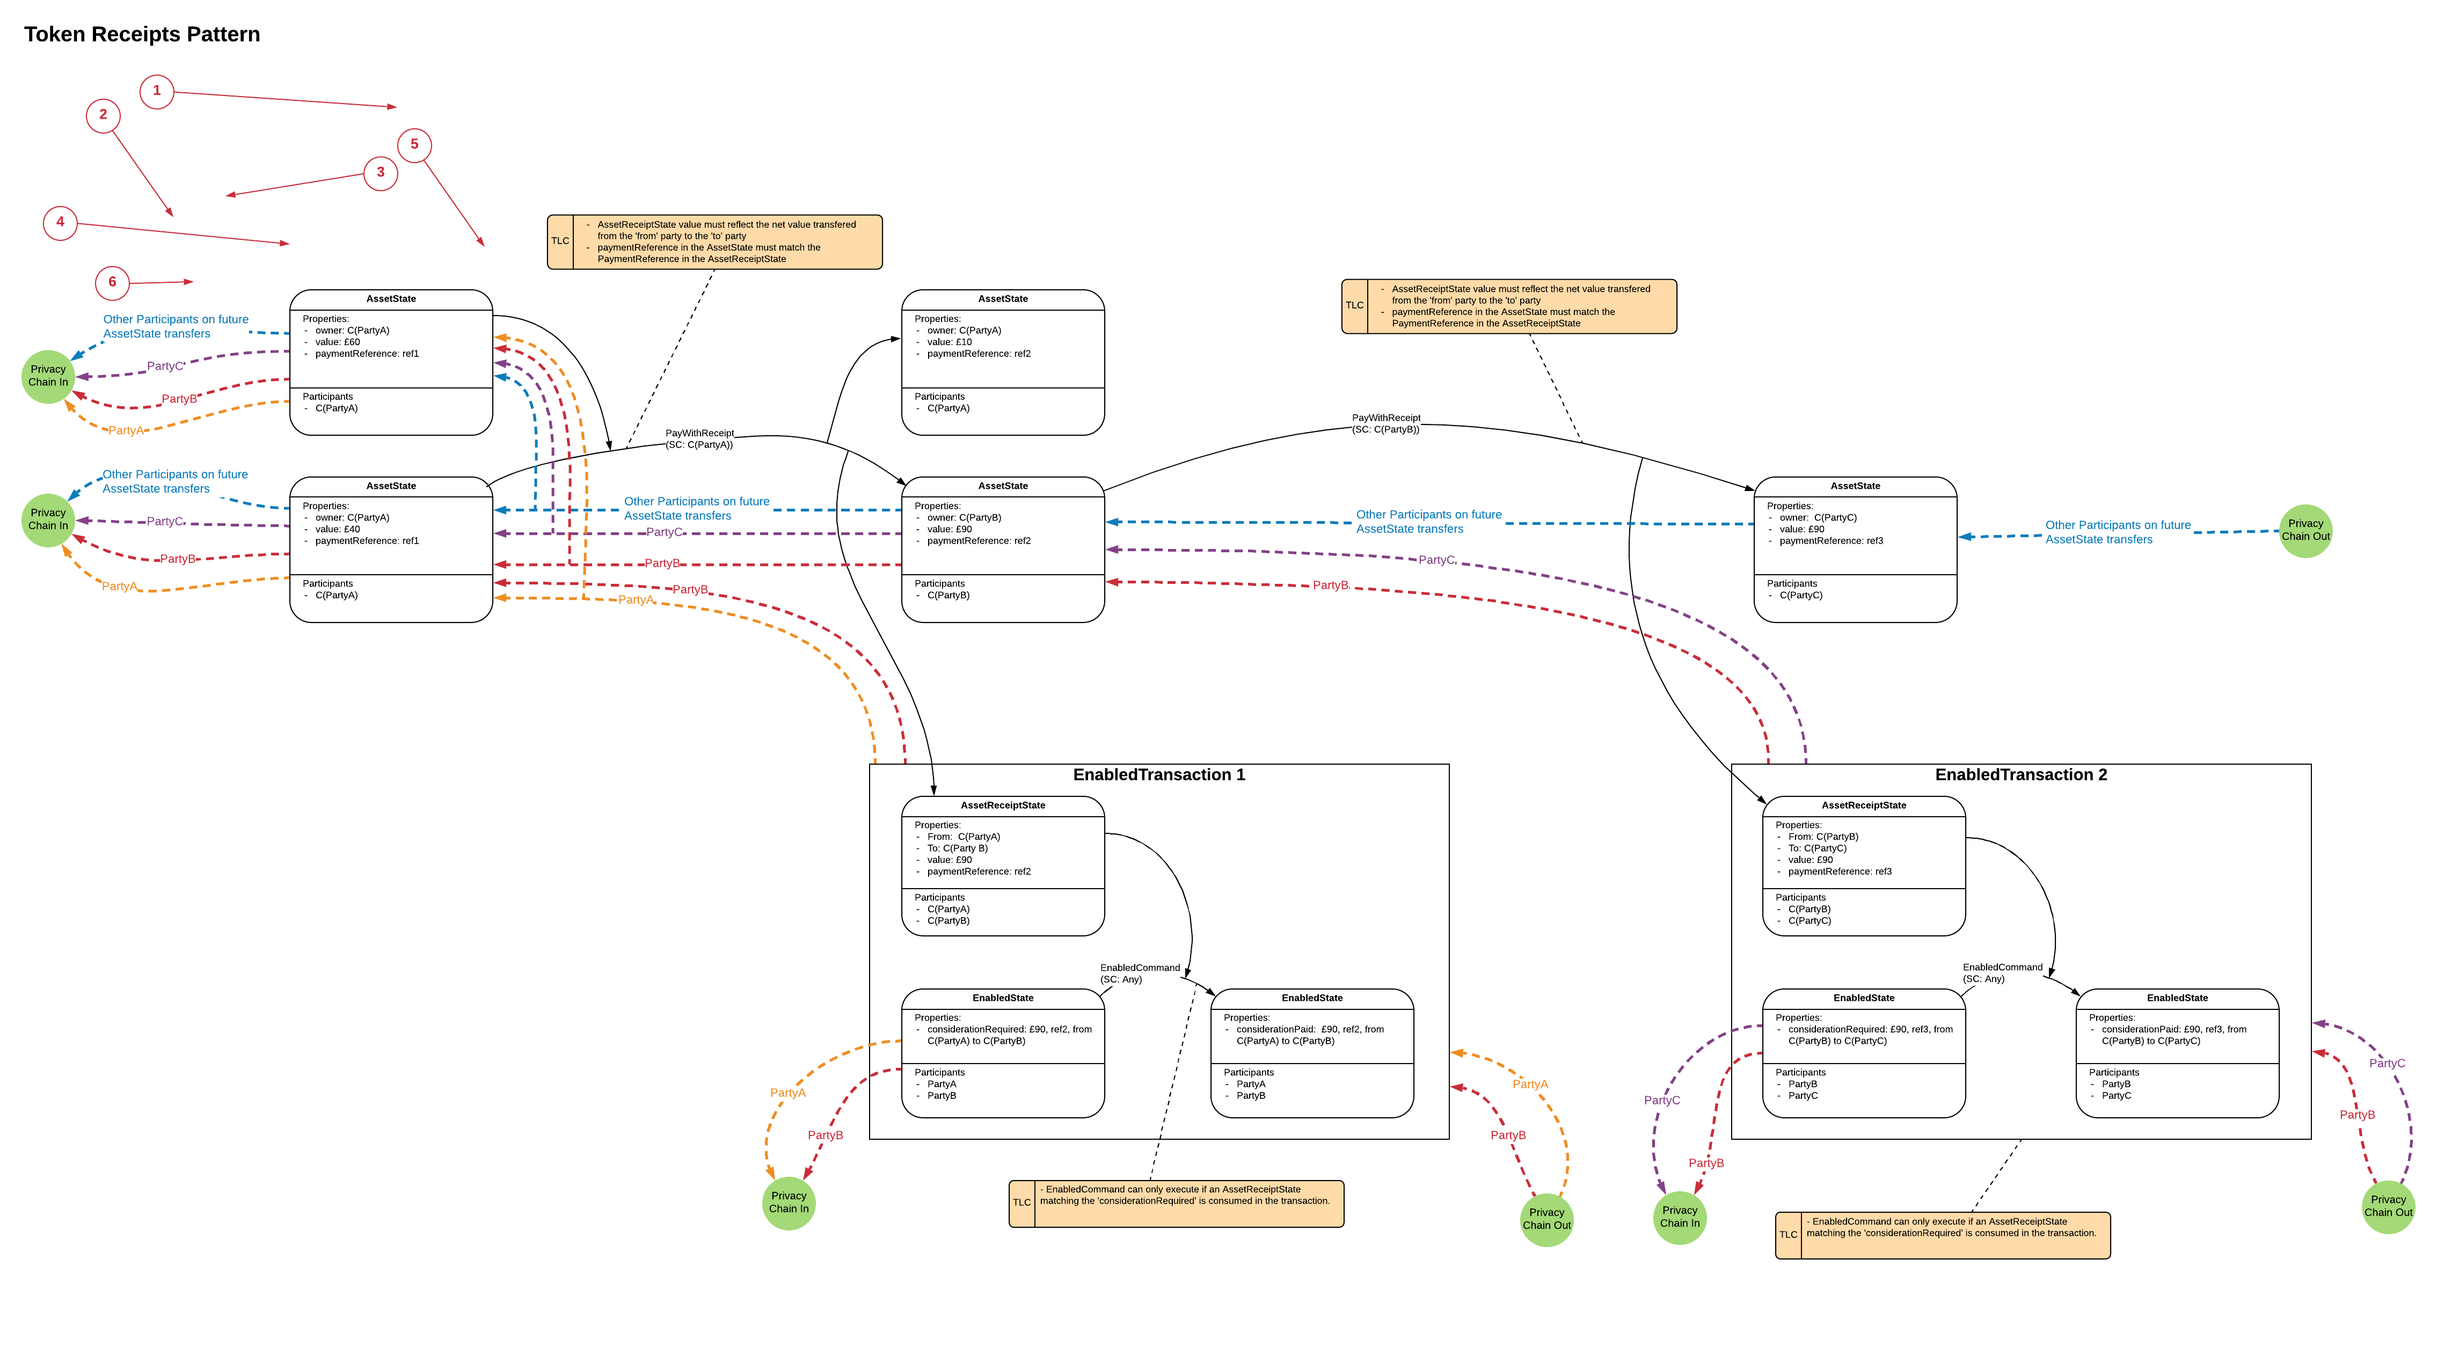
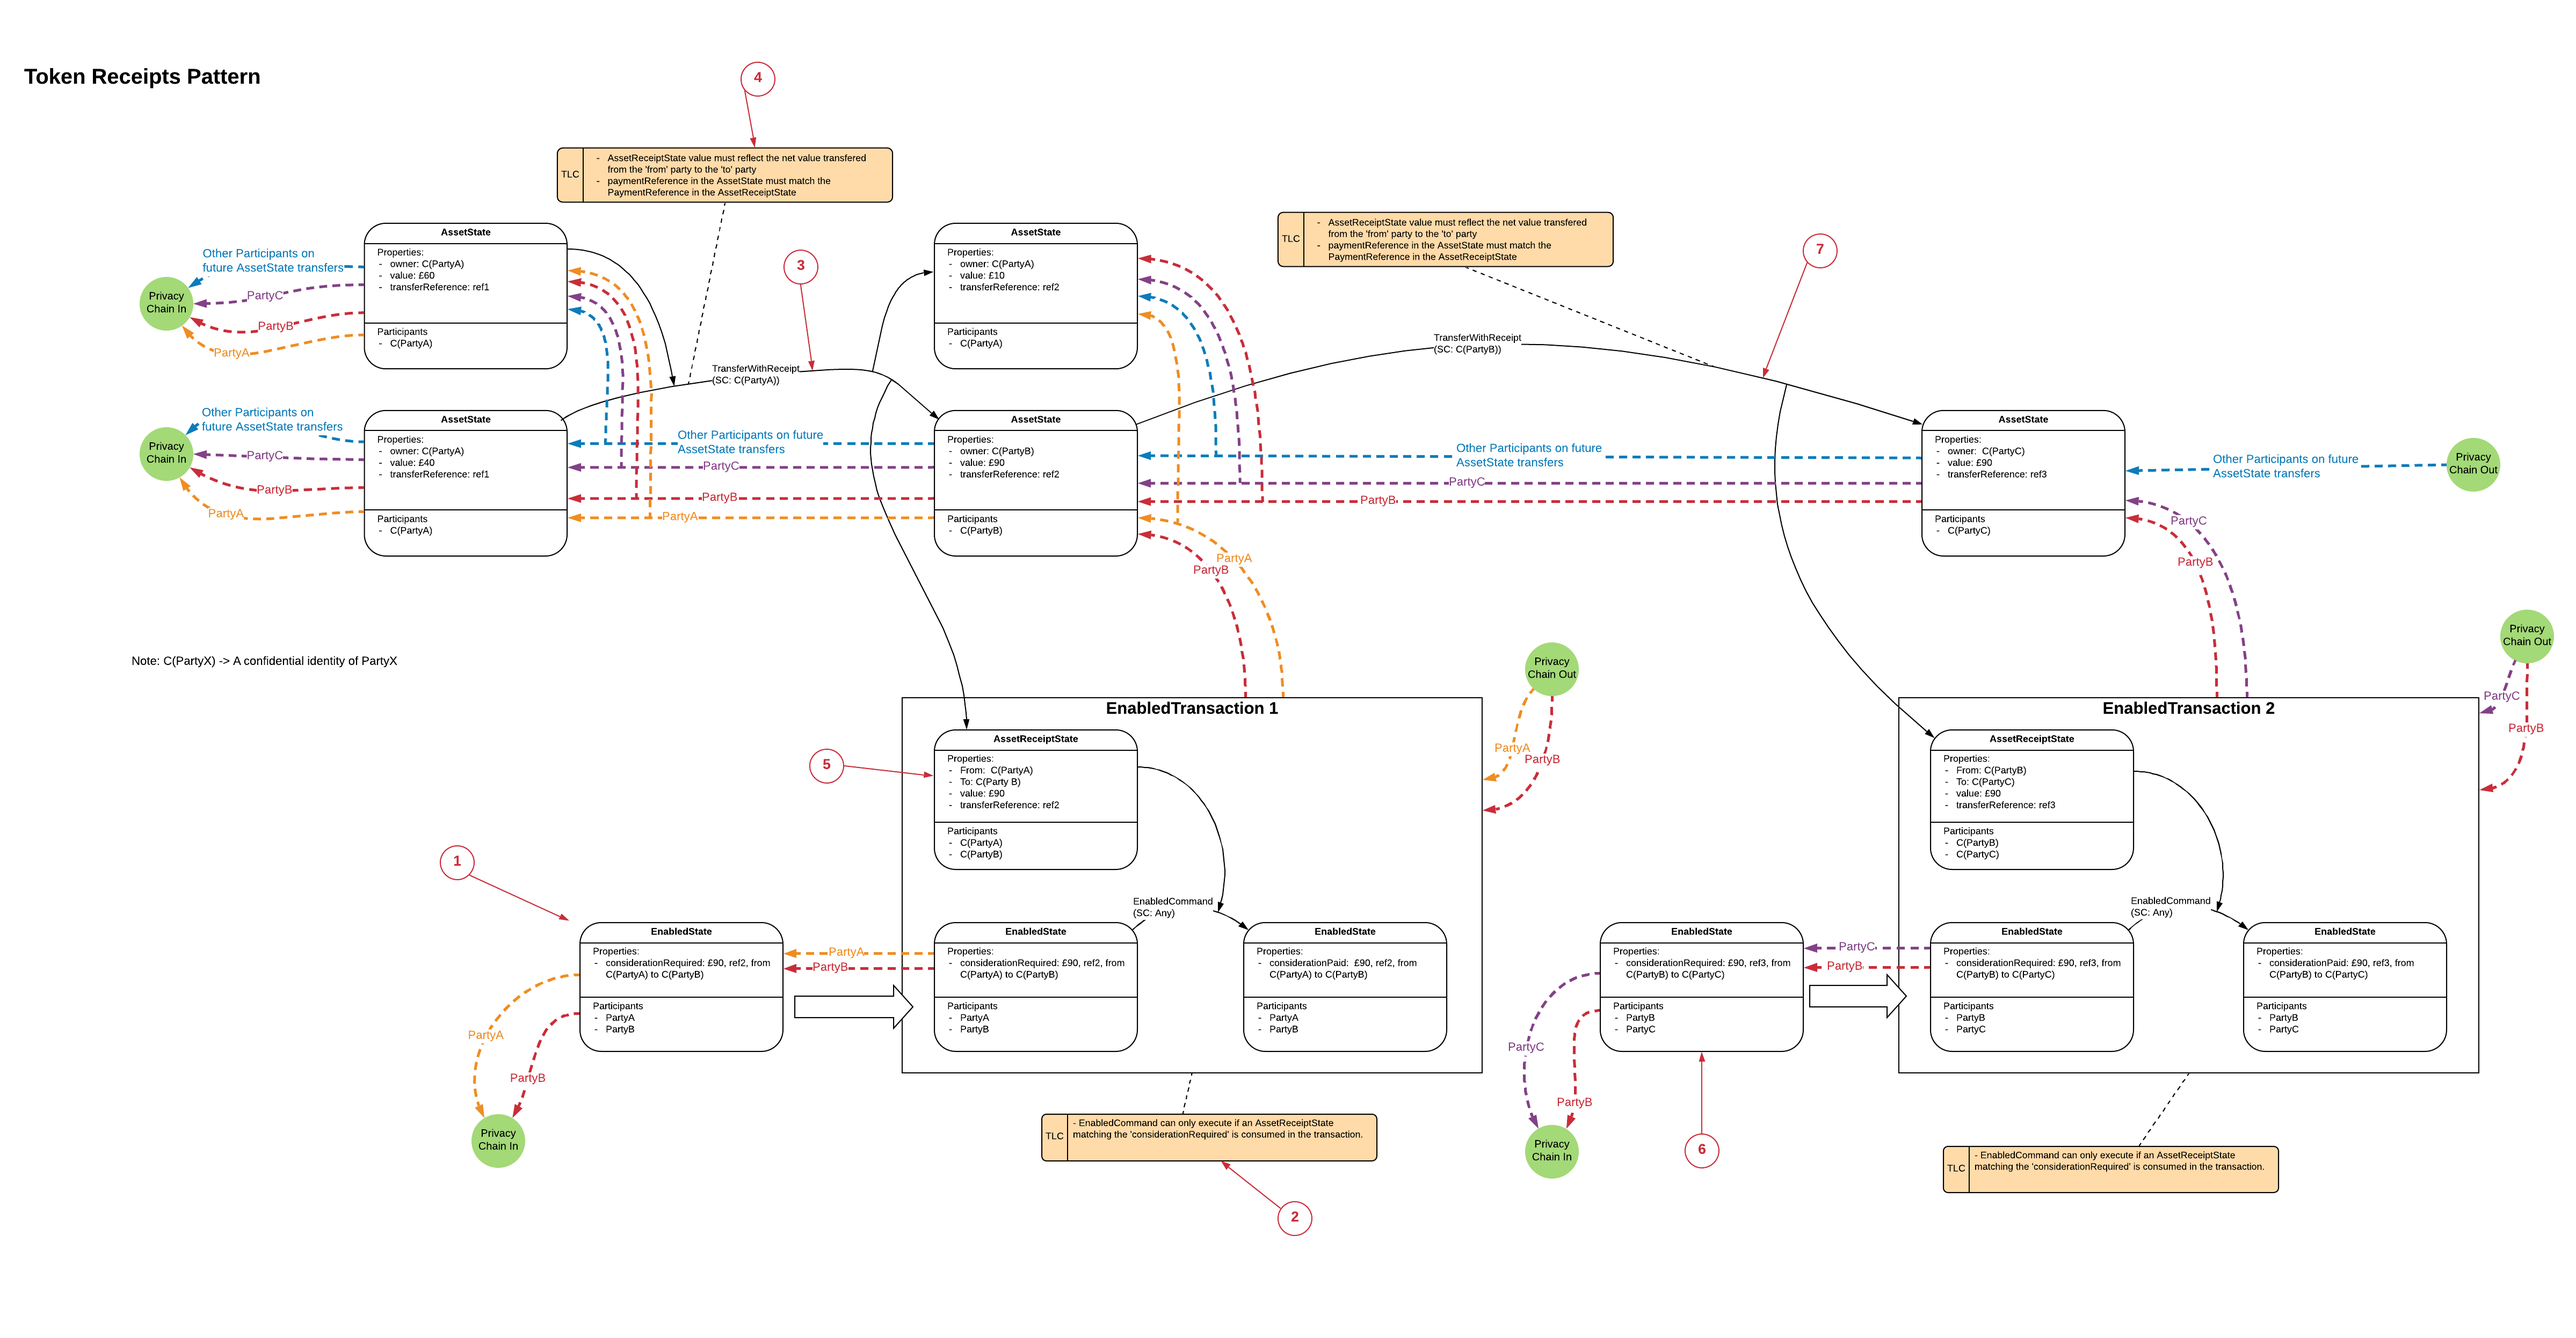
added draft of token receipts

diff --git a/docs/source/patterns/token-receipts.rst b/docs/source/patterns/token-receipts.rst
@@ -2,16 +2,79 @@
 Token Receipts Pattern
 ======================
 
-WIP
+:Status: Work In Progress
+:Implemented: No
 
-The receipts pattern can be extend so that the Chain state is an asset/ Cash. The receipts can then be used to evidence payment in another transaction which allows some other event to occur, eg movement of another asset.
+-------
+Summary
+-------
 
-In the diagram below:
- - Chainstate -> CashState
- - AnyState -> some business State which only transitions if the cash receipt is present to prove prior payment
+Token receipts pattern can be used where evidence of an AssetState transition (change of owner) movement is required to enable a Transition within a separate Transaction (EnabledTransaction), specifically where:
 
-The Cash state would likely use Confidential identities to preserve privacy along the Cash evolution chain.
+- Each set of AssetState transitions within a single transaction should enable only one EnabledTransaction, no double spends.
+- Being a participant on the AssetState chain, does not give the ability to resolve the EnabledTransactions. (Although some participants will also be participants on the EnabledTransactions)
+- Being a participant on an EnabledTransaction does not giver the ability to resolve details on other EnabledTransactions. (Although some participants will also be participants on other EnabledTransactions)
+- The AssetState uses Confidential identities to preserve privacy on the AssetState chain
+
+
+The Token Receipts Pattern is an extension of the Receipts pattern, where the EnablerState is a fungible/ ownable AssetState.
+
+------------------------
+Explanation/ Walkthrough
+------------------------
+
+State Evolution diagram with Privacy overlay (see the Corda Modelling Notation section for details on how to read the diagram):
 
 .. image:: resources/P_Token_receipts_state_evolution.png
-  :width: 80%
+  :width: 100%
   :align: center
+
+:Steps:
+
+  1. An EnabledState exists which has the pre-condition 'PartyA must Pay PartyB £90 with a transferReference ref2' in its considerationRequired property.
+
+
+  2. The Contract for the EnabledState specifies that the transition 'EnabledCommand' is not permitted to occur unless the EnabledTransaction contains an AssetReceiptState showing that TransferWithRecipt transition has occurred on the AssetState Chain which matches the considerationRequired pre-condition.
+
+
+  3. A transaction is constructed using fungible AssetStates where the net movement of AssetStates matches the pre-conditions, using the TransferWithReceipt Command.
+
+  4. As part of the transaction an AssetReceiptState is created. The Contract for the AssetState must ensure that the AssetReceiptState provably matches the transfer that occurred. ie in this case that net movement of £90 of AssetState moved from PartyA to PartyB and that the transferReference was 'ref2'.
+
+  5. Once the AssetReceiptState has been created, it is used in EnabledTransaction 1 to enable the EnabledCommand transition on EnabledState.
+
+  6. A seconded EnabledState exists which has the pre-condition 'PartyB must Pay Partyc £90 with a transferReference ref3' in its considerationRequired property.
+
+  7. A second TransferWithReceipt transaction is created, whereby PartyB transfers the Asset he previously receive in transfer ref2 to PartyC, this time the transferReference is ref3. An AssetReceiptState is create.
+
+  8. The AssetReceiptState it is used in EnabledTransaction 2 to enable the EnabledCommand transition on EnabledState.
+
+----------------
+Privacy Analysis
+----------------
+
+The crux of the pattern is its privacy characteristics. There are two important characteristics:
+
+1) Privacy between EnabledTransactions:
+
+ Let's assume that EnabledTransaction 1 is a business deal between Party B and Party A, EnabledTransaction2 is a separate business deal between Party B and PartyC and that PartyC is a competitor of PartyA. Party A should not resolve any details of the PartyB-PartyC deal and PartyC should not resolve any details of the PartyB-PartyA deal. By following the Privacy trace for Party A from EnabledTransactoin 1 (orange line) you can see that PartyA does not resolve EnabledTransaction 2. By following the Privacy trace for PartyC (purple line) from EnabledTransaction 2 you can see that PartyC does not resolve EnabledTransaction 1.
+
+2) Privacy from AssetState Participants
+
+ When the participants on the AssetState chain resolve their transactions they will only resolve down the AssetState chain, they will never resolve any of the EnabledTransactions which the AssetReceiptStates were used to enable. This is shown by the blue Privacy trace.
+
+ This assumes that the participants on the AssetState chain are not participants on the EnabledTransactions, because then they'd get to see the EnabledTransaction anyway.
+
+3) Confidential identities.
+
+  In order to avoid Participants on the AssetState chain seeing who owned the AssetState before them, which may leak confidential information, Confidential identities should be used in the AssetStates.
+
+
+--------------------------
+Extensions - to brainstorm
+--------------------------
+ - Timewindows to perform transfer/ other limits on what the EnabledState can do
+
+ - Pattern could be simplified if the initial asset owner performs a transaction with themselves to create an asset state with the exact amount of asset required, ie removing the need for a 'change' state in the asset transfer transaction
+
+ - Patterns to prevent the spending away of the EnabledState once Payment has been made (asset lock)

diff --git a/docs/source/patterns/receipts.rst b/docs/source/patterns/receipts.rst
@@ -13,8 +13,8 @@ Summary
 Receipts pattern can be used when the transitions of a state chain (EnablerState) must be evidenced within other transactions (EnabledTransaction) to allow  the transitions in those transactions to take palace, specifically where:
 
  - Each EnablerState transition should enable only one EnabledTransaction, no double spends.
- - Some participants on an EnabledTransaction cannot resolve details of other EnabledTransactions.
- - Some participants on the EnablerChain should not resolve the EnabledTransactions.
+ - Being a participant on the EnablerState chain, does not give the ability to resolve the EnabledTransactions. (Although some participants will also be participants on the EnabledTransactions)
+ - Being a participant on an EnabledTransaction does not giver the ability to resolve details on other EnabledTransactions. (Although some participants will also be participants on other EnabledTransactions)
  - The EnablerState Chain can store cumulative information about the Receipts it has created.
 
 
@@ -23,9 +23,9 @@ Receipts pattern can be used when the transitions of a state chain (EnablerState
 Explanation/ Walkthrough
 ------------------------
 
-As a foundational pattern, the explanation may be a little abstract, for a more concrete pattern which uses the Receipts pattern, see Billing with Receipts. Alternatively, it maybe helpful to imagine the EnablingState to be some form of payment token and the EnabledTransaction to be a business event that can only happen once payment has been proved to have occurred.
+As a foundational pattern, the explanation may be a little abstract, for a more concrete pattern which uses the Receipts pattern, see Billing with Receipts. Alternatively, it maybe helpful to imagine the EnablingState to be some form of payment token and the EnabledTransaction to be a business event that can only happen once payment has been proved to have occurred, in which case it extends to the Token Receipts pattern.
 
-The pattern can be illustrated as follows:
+The pattern can be illustrated as follows, using a State Evolution diagram with Privacy overlay (the Corda Modelling Notation section for details on how to read the diagram):
 
 .. image:: resources/P_Receipts_state_evolution.png
   :width: 100%
@@ -39,7 +39,7 @@ The pattern can be illustrated as follows:
 
 4. Once the ReceiptState has been created, it can be used in EnabledTransaction to enable the EnabledCommand Transition on EnabledState.
 
-5. Prior to EnabledTransaction 2 taking place, whoever has permission to execute the CommandWithRecipt Transition must execute another CommandWithReceipt transition thus generating the second (distinct) ReceiptState.
+5. Prior to EnabledTransaction 2 taking place, whoever has permission to execute the CommandWithReceipt Transition must execute another CommandWithReceipt transition thus generating the second (distinct) ReceiptState.
 
 6. The Second ReceiptState can now be used to enable EnabledTransaction 2.
 
@@ -52,7 +52,7 @@ The crux of the pattern is its privacy characteristics. There are two important 
 
 1) Privacy between EnabledTransactions:
 
- Let's assume that a subset of the participants in EnabledTransaction 2 are not allowed to know about EnabledTransaction 1, for example if they are competitors. When the participants of EnabledTransaction 2 resolves the transaction they will resolve back to the EnablerChain, they will at no point resolve EnabledTransaction 1. This is shown by the red Privacy trace, which considers what the 'CompetitorParty' participant must resolve.
+ Let's assume that a subset of the participants in EnabledTransaction 2 are not allowed to know about EnabledTransaction 1, for example if they are competitors. When the participants of EnabledTransaction 2 resolves the transaction they will resolve back to the EnablerState chain, they will at no point resolve EnabledTransaction 1. This is shown by the red Privacy trace, which considers what the 'CompetitorParty' participant must resolve.
 
  This assumes that 'CompetitorParty' is not a participant on the EnabledTransaction 1, because then they'd get to see EnabledTransaction 1 anyway.
 
@@ -60,7 +60,7 @@ The crux of the pattern is its privacy characteristics. There are two important 
 
 When the participants on the EnablerState chain resolve their transactions they will only resolve down the EnablerState chain, they will never resolve any of the EnabledTransactions which the ReceiptStates were used to enable. This is shown by the blue Privacy trace.
 
-This assumes that the participants on the EnablerChain are not participants on the EnabledTransactions, because then they'd get to see the EnabledTransaction anyway.
+This assumes that the participants on the EnablerState chain are not participants on the EnabledTransactions, because then they'd get to see the EnabledTransaction anyway.
 
 
 ----------

diff --git a/docs/source/patterns/billing-with-receipts.rst b/docs/source/patterns/billing-with-receipts.rst
@@ -4,6 +4,8 @@ Billing With ChipOffs/ Receipts
 
 WIP
 
+** need to correct Diagram for privacy traceback (like receipts) + update github implementation readme 
+
 -------
 Summary
 -------
